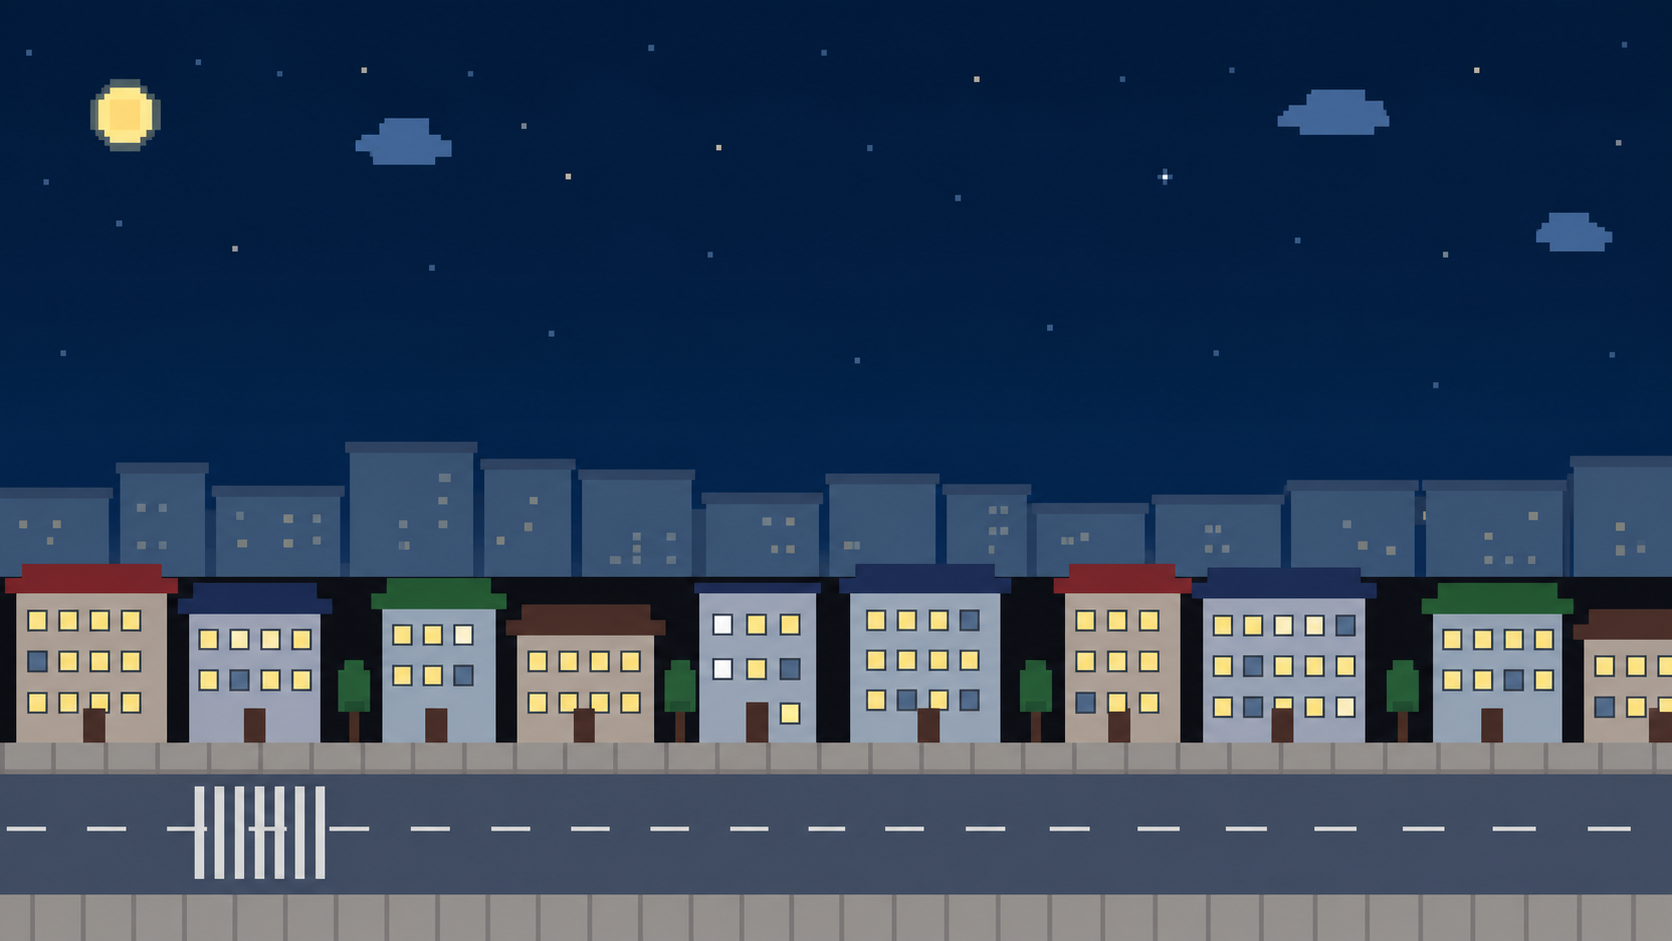
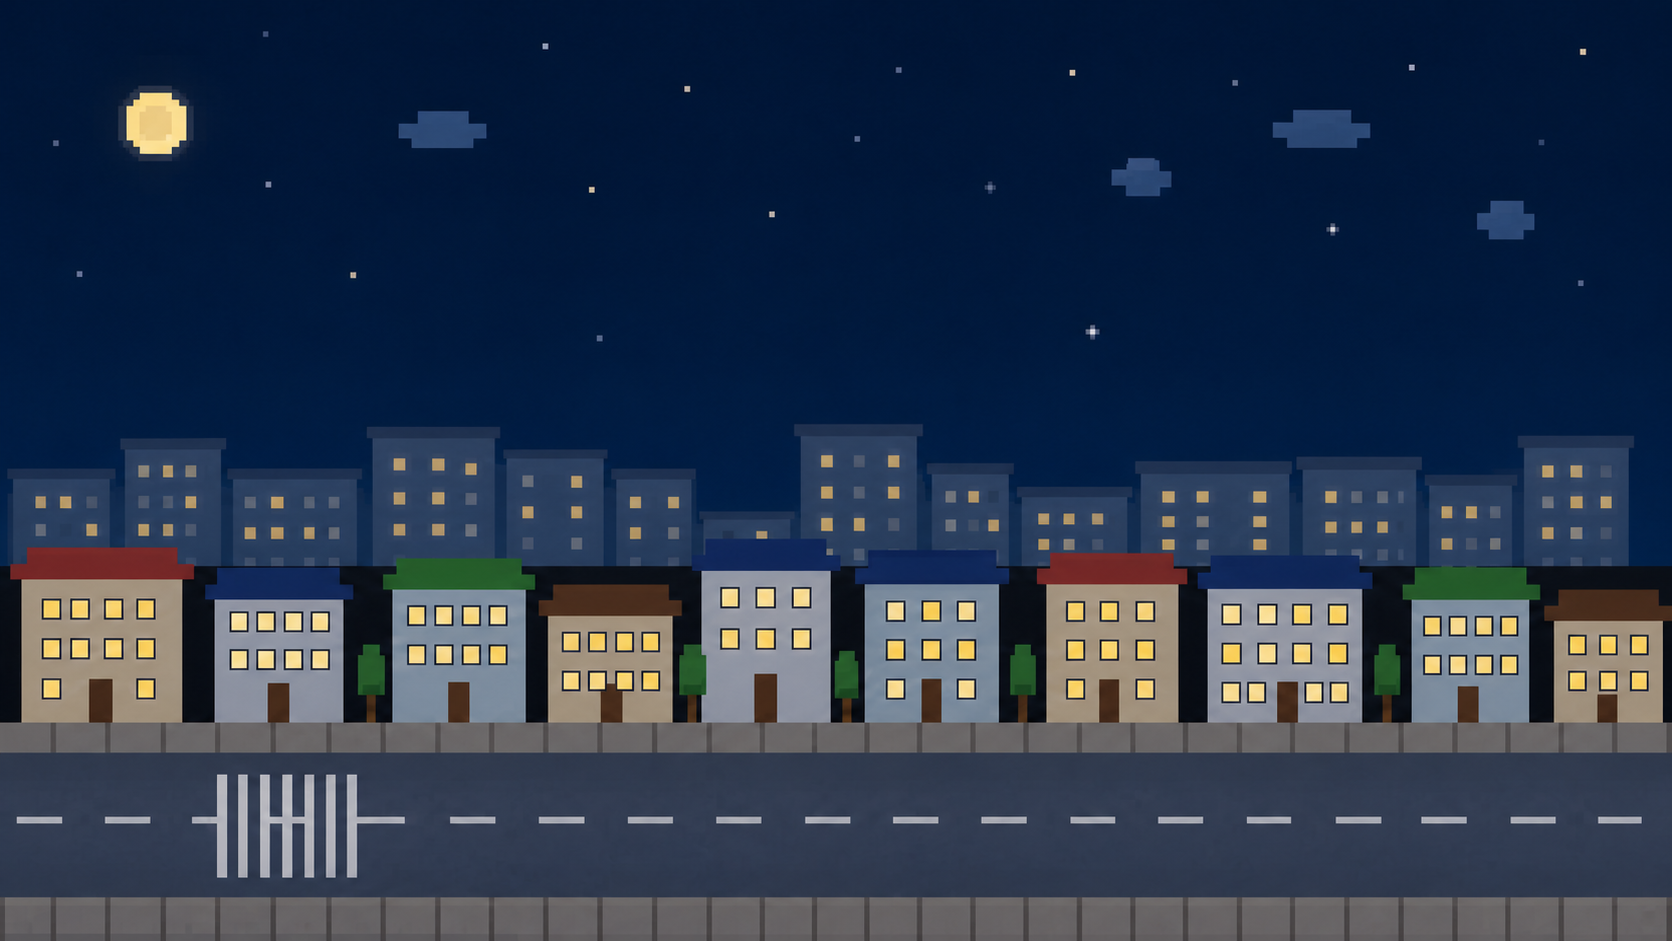
Add 32x32 tile pixel backgrounds

diff --git a/public/assets/backgrounds/README.md b/public/assets/backgrounds/README.md
@@ -1,8 +1,10 @@
 # Background Assets
 
-- `korea-city-day.png`: Korean city pixel-art game background, daytime version.
-- `korea-city-night.png`: Same Korean city pixel-art game background, nighttime version.
+- `korea-city-day.png`: Korean city title background, daytime version.
+- `korea-city-night.png`: Same Korean city title background, nighttime version.
+- `korea-field-day.png`: Korean city in-game field background, daytime version.
+- `korea-field-night.png`: Same Korean city in-game field background, nighttime version.
 
-These two images are intended as a matched day/night pair. The background concept,
-camera angle, and environment should be treated as unchanged; only the time of day
-and lighting are different.
+These images are high-quality pixel-art backgrounds built around a 32x32 tile
+visual grid. Each day/night pair should be treated as the same background layout;
+only the time of day and lighting are different.